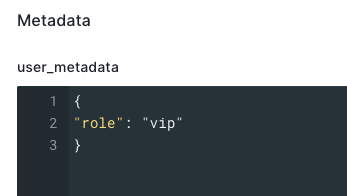
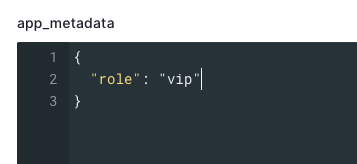
updates

diff --git a/experiences/virtual-event/using-role-based-access-control.html b/experiences/virtual-event/using-role-based-access-control.html
@@ -37,7 +37,7 @@ layout: staging
       <li>Login to  your Auth0 account.</li>
       <li>In the left navigation, click <strong> User Management &gt; Users</strong>.</li>
       <li>Click on a user to view the user details.</li>
-      <li>Assign the appropriate role to the user in the <strong>user_metadata</strong> section. Roles should be entered using the format <code>"role": assigned role</code>.
+      <li>Assign the appropriate role to the user in the <strong>app_metadata</strong> section. Roles should be entered using the format <code>"role": assigned role</code>.
         <p>In the following example, the user is assigned a <strong>role</strong> of <strong>vip</strong>.</p>
         <figure class="bcls-figure"><img class="bcls-image--no-border" alt="" src="/assets/images/experiences/virtual-event/rbac-auth0-role.png" /></figure>
       </li>
@@ -83,19 +83,65 @@ function mapSamlAttributes(user, context, callback) {
       </li>
       <li>Click <span class="button-blue">Save</span>.</li>
     </ol>
-        <aside class="bcls-aside bcls-aside--information">Note: The agenda must be activated before it will appear in a Virtual Event Experience.</aside>
-
+    <aside class="bcls-aside bcls-aside--information">Note: The agenda must be activated before it will appear in a Virtual Event Experience.</aside>
   </section>
   <section class="bcls-section">
-    <h2 id="attributes">Exposing SAML attributes</h2>
-    <p>In order for the experience to access the role attribute  from your SSO/registration system provider, ensure that the SSO settings are configured correctly.</p>
+    <h2 id="attributes">Filtering the agenda based upon roles</h2>
+    <p>Custom code will be used to filter the agenda sessions based upon the user's role. Follow these steps to add the filtering code to the experience.</p>
     <ol class="bcls-tasklist">
-      <li>Open the Gallery module.</li>
-      <li>Click the settings icon (<img class="bcls-image--no-border" alt="" src="/assets/images/get-started/icon-settings.png" />)  on the home page.</li>
-      <li>In the left navigation, click <strong>Access Control Profiles</strong>. A list of created Access Control Profiles will be displayed.</li>
-      <li>Click the edit icon for the profile the Virtual Event Experience is using.</li>
-      <li>Confirm that the <strong>Expose all attributes</strong> option at the bottom of the page is checked.
-        <figure class="bcls-figure"><img class="bcls-image--no-border" alt="" src="/assets/images/experiences/virtual-event/rbac-expose-attributes.png" /></figure>
+      <li>Open the <strong>Gallery</strong> module.</li>
+      <li>Edit the experience.</li>
+      <li>In the left navigation, click <strong>Header and Footer</strong>.</li>
+      <li>Paste the following code into the <strong>Custom Header HTML</strong> field.
+          <pre class="line-numbers"><code class="language-javascript" translate="No">
+        &lt;script src="https://code.jquery.com/jquery-2.2.4.min.js" integrity="sha256-BbhdlvQf/xTY9gja0Dq3HiwQF8LaCRTXxZKRutelT44=" crossorigin="anonymous"&gt;&lt;/script&gt;
+        
+        &lt;script&gt;
+        $(document).ready(() =&gt; {
+          // Get role from SAML data and Agenda sessions from site
+          const role = window.bcGallery.filteredAssemblerData.samlAttributes ? window.bcGallery.filteredAssemblerData.samlAttributes.role : null;
+        
+          if (!role) {
+            console.log("Error filtering Agenda sessions. No role specified on SAML data.");
+            return;
+          }
+        
+          const sessions = bcGallery.filteredAssemblerData.site.agenda.sessions;
+        
+          // Looking for essions to be filtered out
+          const filteredSessions = sessions.filter((session) =&gt; {
+            // If session does not have tags, do not filter the session
+            if(!session["restricted_tags"].length) {
+                return false;
+            }
+            const restrictedTags = session["restricted_tags"];
+            if(!restrictedTags.includes(role)) {
+              return true;
+            }
+            return false;
+          });
+        
+          if(filteredSessions.length) {
+            const contentWrapper = document.querySelector('.bcg-fixed-width-container');
+        
+            // Creating an observer to watch for DOM changes that might put back a filtered session
+            const observer = new MutationObserver(() =&gt; {
+              filteredSessions.forEach(session =&gt; {
+                // Remove sessio item using its session id
+                $(`[data-session-id='${session.id}']`).remove();
+              });    
+            });
+        
+            observer.observe(contentWrapper, {
+              attributes:    true,
+              childList:     true,
+              characterData: true 
+            });
+          }
+        });
+        &lt;/script&gt;
+</code></pre>
+        <figure class="bcls-figure"><img class="bcls-image--no-border" alt="" src="/assets/images/experiences/virtual-event/rbac-agenda-filter-code.png" /></figure>
       </li>
       <li>Click<strong> Save</strong>.</li>
     </ol>
